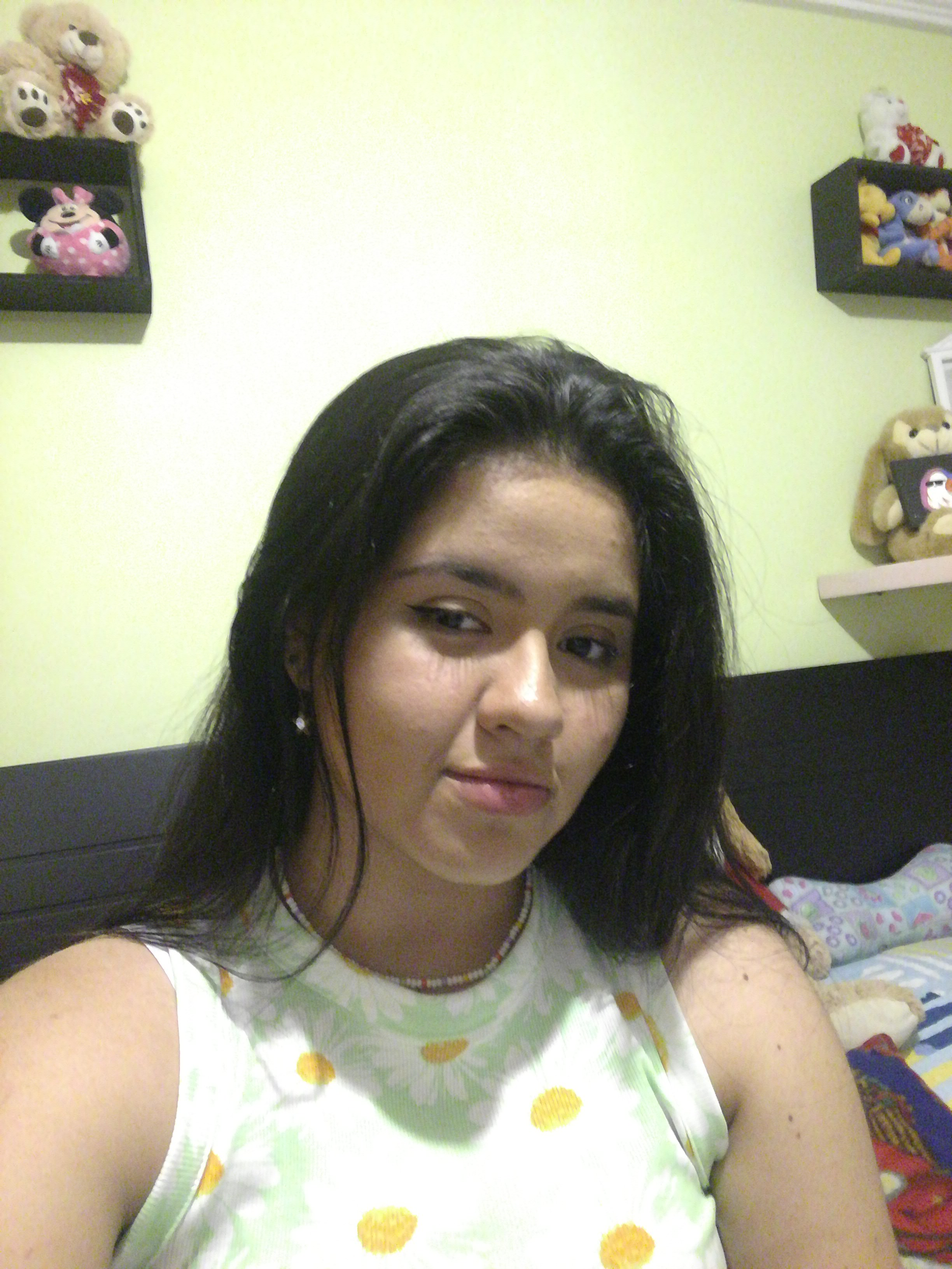
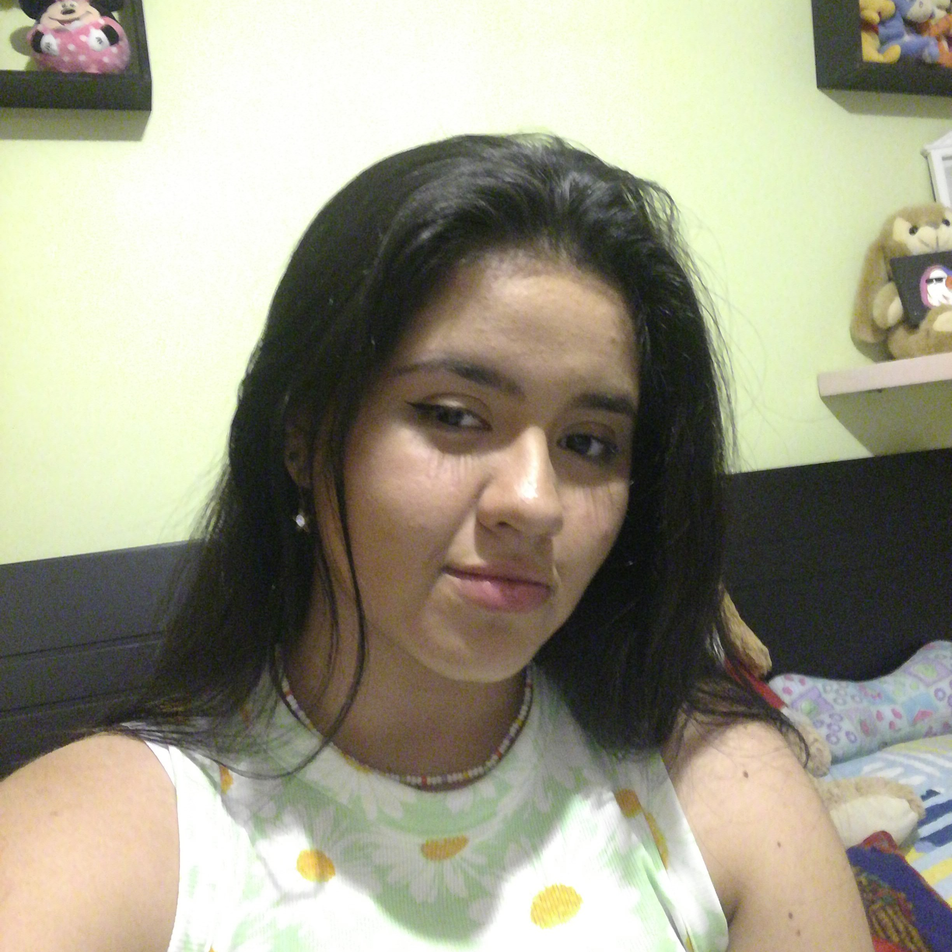
again

diff --git a/index.html b/index.html
@@ -10,7 +10,7 @@
   <body background="img/fondo.jpg">
     <div class="container">
       <div class="subcontainer1">
-        <img class="img1" src="img/epa2.jpeg" alt="Foto" width="70%" />
+        <img class="img1" src="img/epa.jpeg" alt="Foto" />
         <hr class="separador" />
         <div class="datos">
           <div class="Edatos">
@@ -21,16 +21,16 @@
             <p><b> •Apellidos:</b>Mendoza Torres</p>
             <p><b> •N° de Contacto:</b>3005035096</p>
             <p>
-              <b> •Perfil:</b>Soy una persona a la que le gusta aprender cosas
-              nuevas,tengo Habilidad y disposición para realizar labores con
-              objetivos específicos, facilidad para interactuar con otras
-              personas,tengo buen desempeño en trabajar en equipo y excelente
-              capacidad para aprender procesos.
-            </p>
-            <br />
-          </div>
-          <br />
-          <div class="links">
+              <b> •Perfil:</b>Soy una persona a la que le gusta aprender cosa s
+              nuevas,tengo Habilidad y disposición para realizar labores con  
+              objetivos específicos, facilidad para interactuar con otras 
+              personas,tengo buen desempeño en trabajar en equipo y excelente 
+              capacidad para aprender procesos. 
+            </p>  
+            <br />  
+          </div>  
+          <br />  
+          <div class="links"> 
             <div class="img">
               <a
                 href="https://www.linkedin.com/in/laura-vanessa-mendoza-torres-0a34452ba/" target="_blank"
@@ -49,6 +49,7 @@
               </a>
             </div>
           </div>
+          <br>
         </div>
       </div>
       <div class="subcontainer2">
@@ -119,7 +120,7 @@
             Desarrollador Backend<br />
             <b> •Skills:</b>
           </p>
-          <div class="links2">
+          <div>
             <div class="img">
               <a href="https://www.python.org/" target="_blank">
                 <img class="imgf" src="img/p2.png" alt="Foto" />

diff --git a/css/styles.css b/css/styles.css
@@ -19,11 +19,10 @@
   box-shadow: 2px 2px 2px black;
 }
 .img1 {
-  background-color: #f2c18d;
+  background-color: #fc819e;
   padding: 3%;
   border-radius: 50%;
-  width: 56%;
-  height: 230px;
+  width: 50%;
   border: solid 2px;
   box-shadow: 2px 2px 2px black;
 }
@@ -71,9 +70,7 @@ a {
   background-color: #fc819e;
 }
 .links {
-  border-radius: 15px;
-  background-color: #fc819e;
-  box-shadow: 2px 2px 2px black;
+  border-radius: 15px; 
 }
 .img {
   padding: 3%;
@@ -83,19 +80,14 @@ a {
   width: 30%;
   height: 50%;
   margin-left: 6px;
-  box-shadow: 2px 2px 2px black;
   background-color: #fc819e;
-  box-shadow: 2px 2px 2px black;
 }
 .imgf:hover {
   background-color: rgb(248, 222, 188);
 }
-
 .imgf {
   background-color: #b7c9f2;
-  height: 80%;
-  width: 100%;
-  border-left: 10%;
+  width: 50%;
   border-radius: 15px;
   box-shadow: 2px 2px 2px black;
 }
